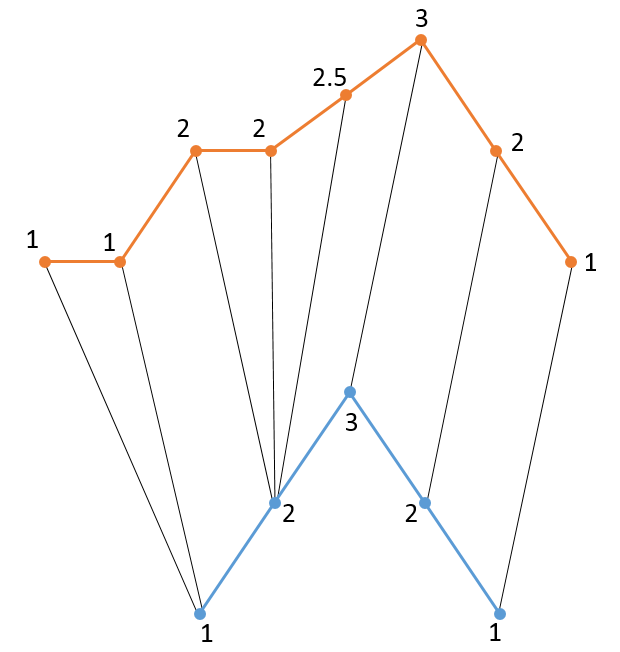
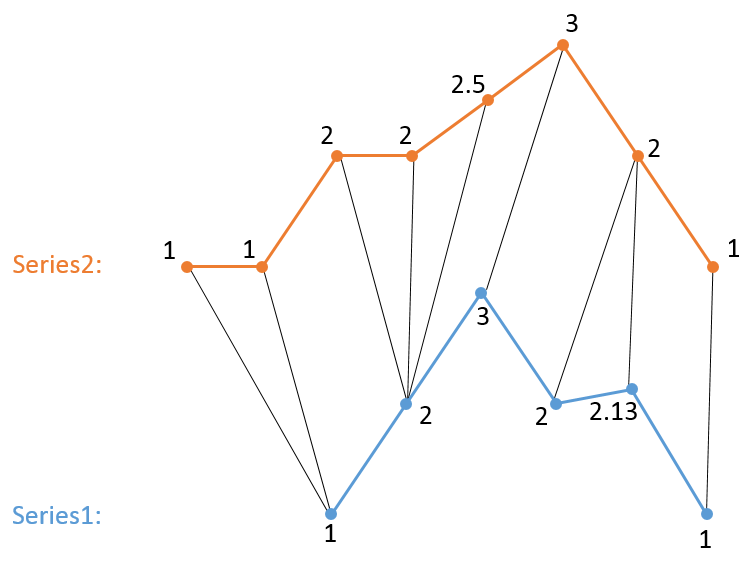
update example

diff --git a/README.md b/README.md
@@ -15,23 +15,24 @@ The following code shows using DTW on the two serieses **series_1** and **series
 
 ```
 >>> import simpledtw
->>> series_1 = [1, 2, 3, 2, 1]
+>>> series_1 = [1, 2, 3, 2, 2.13, 1]
 >>> series_2 = [1, 1, 2, 2, 2.5, 3, 2, 1]
 >>> matches, cost, mapping_1, mapping_2, matrix = simpledtw.dtw(series_1, series_2)
 >>> matches
-[(0, 0), (0, 1), (1, 2), (1, 3), (1, 4), (2, 5), (3, 6), (4, 7)]
+[(0, 0), (0, 1), (1, 2), (1, 3), (1, 4), (2, 5), (3, 6), (4, 6), (5, 7)]
 >>> cost
-0.5
+0.63
 >>> mapping_1
-[[0, 1], [2, 3, 4], [5], [6], [7]]
+[[0, 1], [2, 3, 4], [5], [6], [6], [7]]
 >>> mapping_2
-[[0], [0], [1], [1], [1], [2], [3], [4]]
+[[0], [0], [1], [1], [1], [2], [3, 4], [5]]
 >>> matrix
-array([[ 0. ,  0. ,  1. ,  2. ,  3.5,  5.5,  6.5,  6.5],
-       [ 1. ,  1. ,  0. ,  0. ,  0.5,  1.5,  1.5,  2.5],
-       [ 3. ,  3. ,  1. ,  1. ,  0.5,  0.5,  1.5,  3.5],
-       [ 4. ,  4. ,  1. ,  1. ,  1. ,  1.5,  0.5,  1.5],
-       [ 4. ,  4. ,  2. ,  2. ,  2.5,  3. ,  1.5,  0.5]])
+array([[ 0.  ,  0.  ,  1.  ,  2.  ,  3.5 ,  5.5 ,  6.5 ,  6.5 ],
+       [ 1.  ,  1.  ,  0.  ,  0.  ,  0.5 ,  1.5 ,  1.5 ,  2.5 ],
+       [ 3.  ,  3.  ,  1.  ,  1.  ,  0.5 ,  0.5 ,  1.5 ,  3.5 ],
+       [ 4.  ,  4.  ,  1.  ,  1.  ,  1.  ,  1.5 ,  0.5 ,  1.5 ],
+       [ 5.13,  5.13,  1.13,  1.13,  1.37,  1.87,  0.63,  1.63],
+       [ 5.13,  5.13,  2.13,  2.13,  2.63,  3.37,  1.63,  0.63]])
 ```
 
 Here is the visualization of the above example. In blue and orange are the value serieses. In black are the optimal connections computed by the DTW algorithm:
@@ -39,7 +40,7 @@ Here is the visualization of the above example. In blue and orange are the value
 
 ![DTW Visualization](/dtw_vis.png)
 
-If for each pair of matched indices, we sum the absolute differences of their values, we get the cost of the whole match, which is identical to the value in the **(n,m)** index in the matrix. In our example, we can see that all of those differences are 0, except for the match **(1,4)**, which makes a cost of **|2.5 - 2| = 0.5**. Hence, the total cost of this example is **0.5**, as also seen in the **(n,m)** index in the matrix.
+If for each pair of matched indices, we sum the absolute differences of their values, we get the cost of the whole match, which is identical to the value in the **(n,m)** index in the matrix. In our example, we can see that all of those differences are 0, except for the match **(1,4)**, which makes a cost of **|2.5 - 2| = 0.5** and except for match **(4,6)**, which makes a cost of **|2 - 2.13| = 0.13**. Hence, the total cost of this example is **0.5 + 0.13 = 0.63**, as also seen in the **(n,m)** index in the matrix.
 
 
 * Although not shown in the example, the values of **series_1** and **series_2** can also be vectors of any dimension
